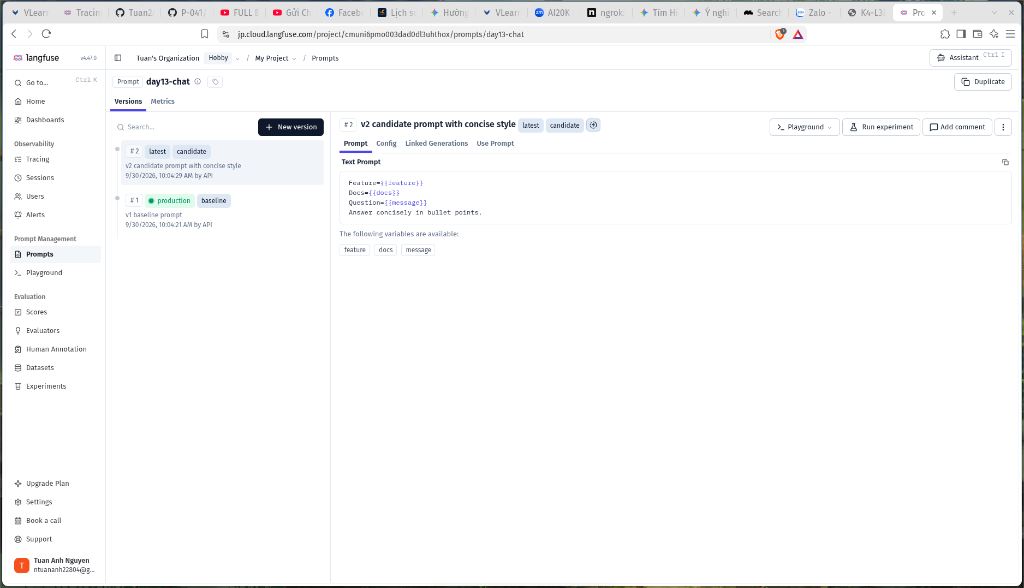
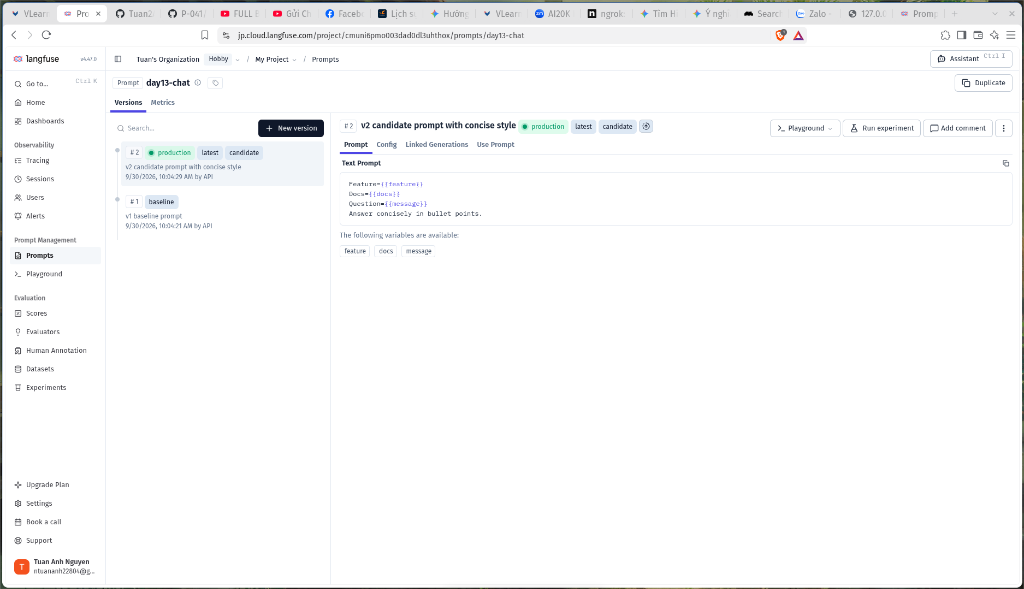
docs: update 09-prompt-versions.png with v2 promotion evidence

diff --git a/submission/REPORT.md b/submission/REPORT.md
@@ -8,7 +8,7 @@
 - **MSSV:** 2A202602535
 - **Lớp:** K4-L3B
 - **Repository URL:** https://github.com/Tuan2Anh/K4-L3B-DAY13-NguyenTuanAnh-2A202602535-Monitoring-LLMOps
-- **Commit SHA cuối:** `4f26b98` (`4f26b98fb1da68166112ae8ee3099b03dd233b68`)
+- **Commit SHA cuối:** `3f4ad3a` (`3f4ad3abcfb87b7a63d91cf0eb2623a886477b78`)
 - **Challenge ID:** `day13-k4-l3b-monitoring-llmops-v1`
 - **Tên project Langfuse cá nhân:** `day13-k4-l3b-2A202602535`
 
